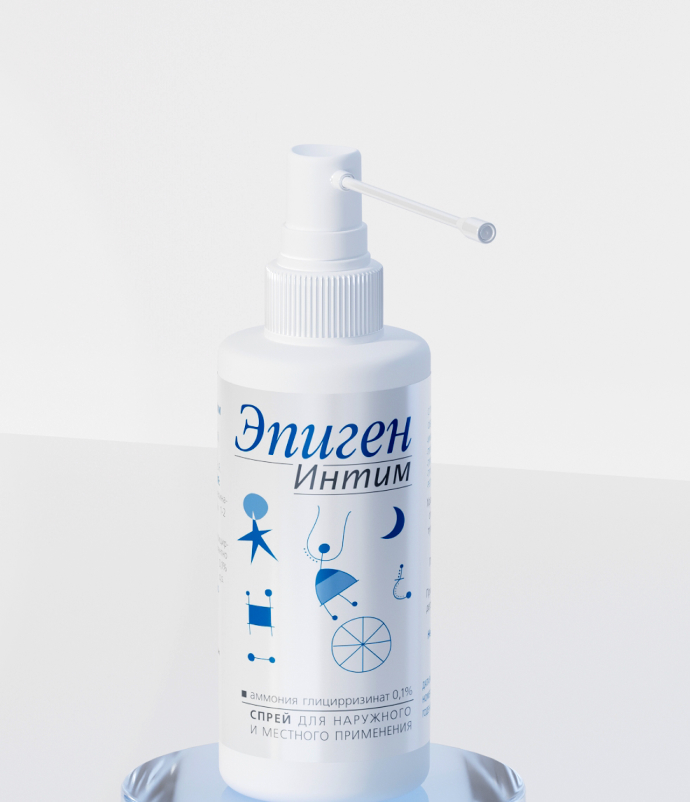
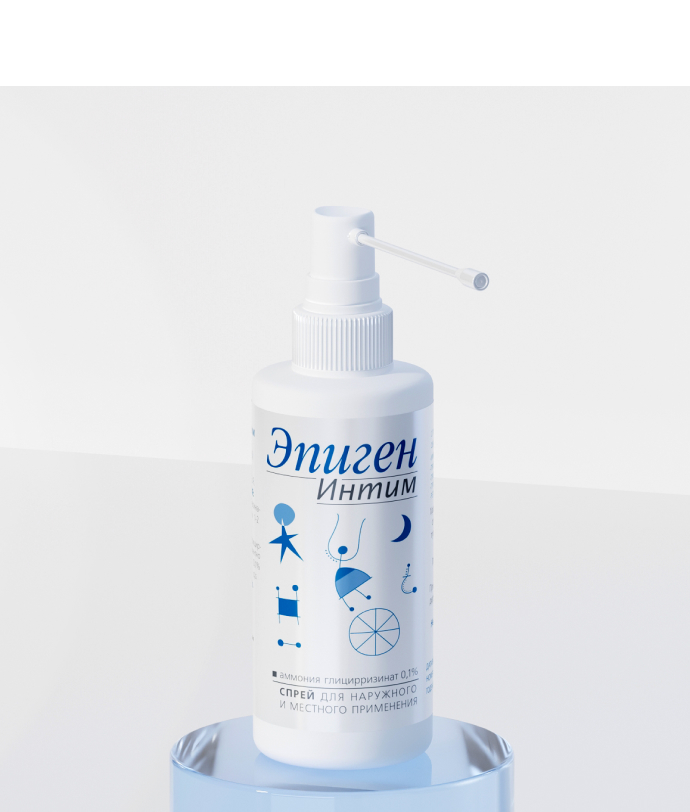
Update spray-product mobile img

Changed region(s): [[0.1522, 0.187, 0.7609, 1.0], [0.6696, 0.2805, 0.7304, 0.3117], [0.6696, 0.3429, 0.7, 0.3741]]

diff --git a/src/assets/styles/modules/block.scss b/src/assets/styles/modules/block.scss
@@ -165,17 +165,20 @@
     background-repeat: no-repeat;
     background-position: left 90% bottom 30%;
     background-size: cover;
+    
 
     &--15 {
       background-image: url('assets/images/spray-page-1.jpg');
       @media (max-width: $breakpoint-m - 1px) {
         background-image: url('assets/images/spray-page-mobile-1.jpg');
+        background-color: #e7e7e7;
       }
     }
     &--60 {
       background-image: url('assets/images/spray-page-2.jpg');
       @media (max-width: $breakpoint-m - 1px) {
         background-image: url('assets/images/spray-page-mobile-2.jpg');
+        background-color: #e7e7e7;
       }
     }
     &--gel {
